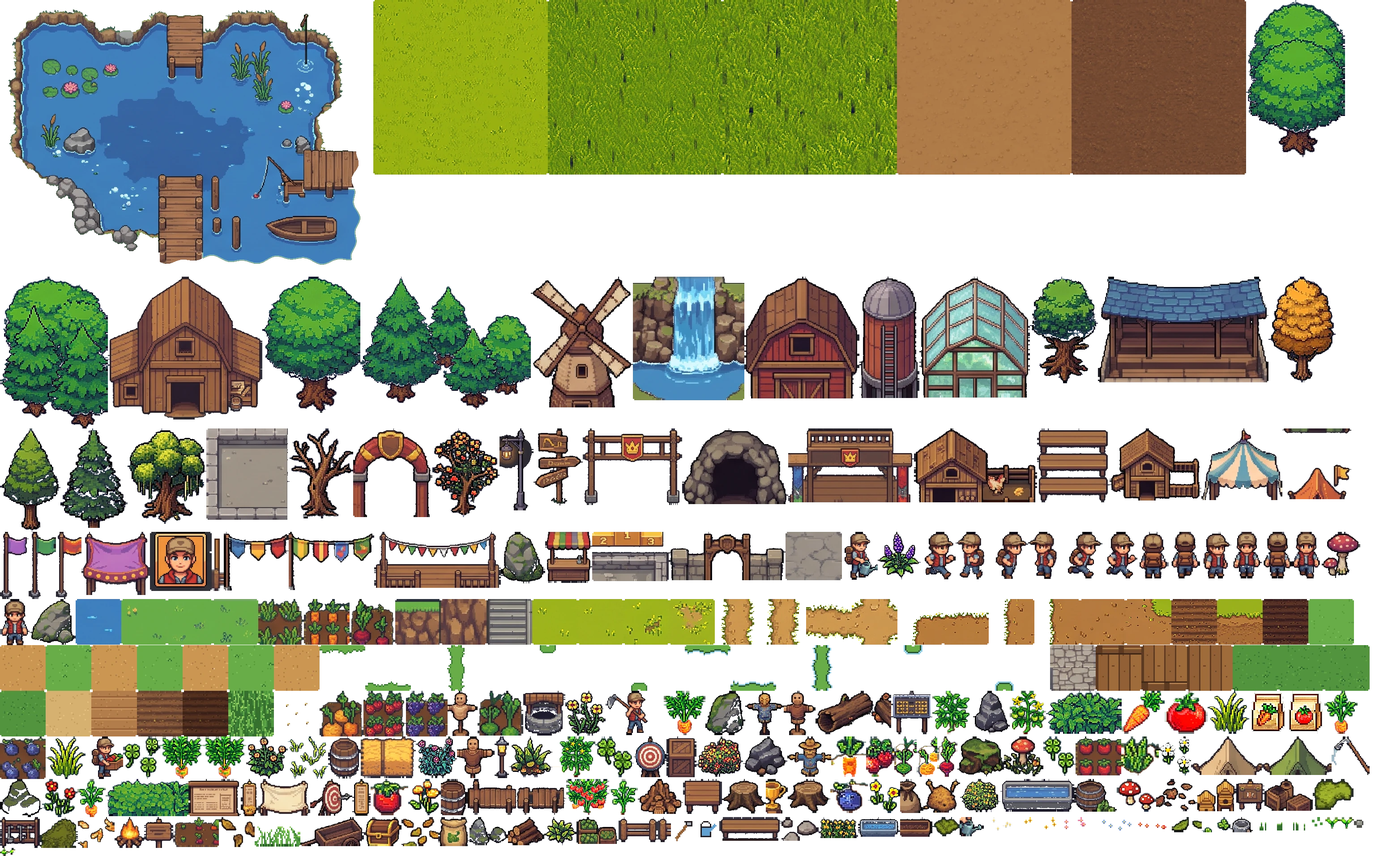
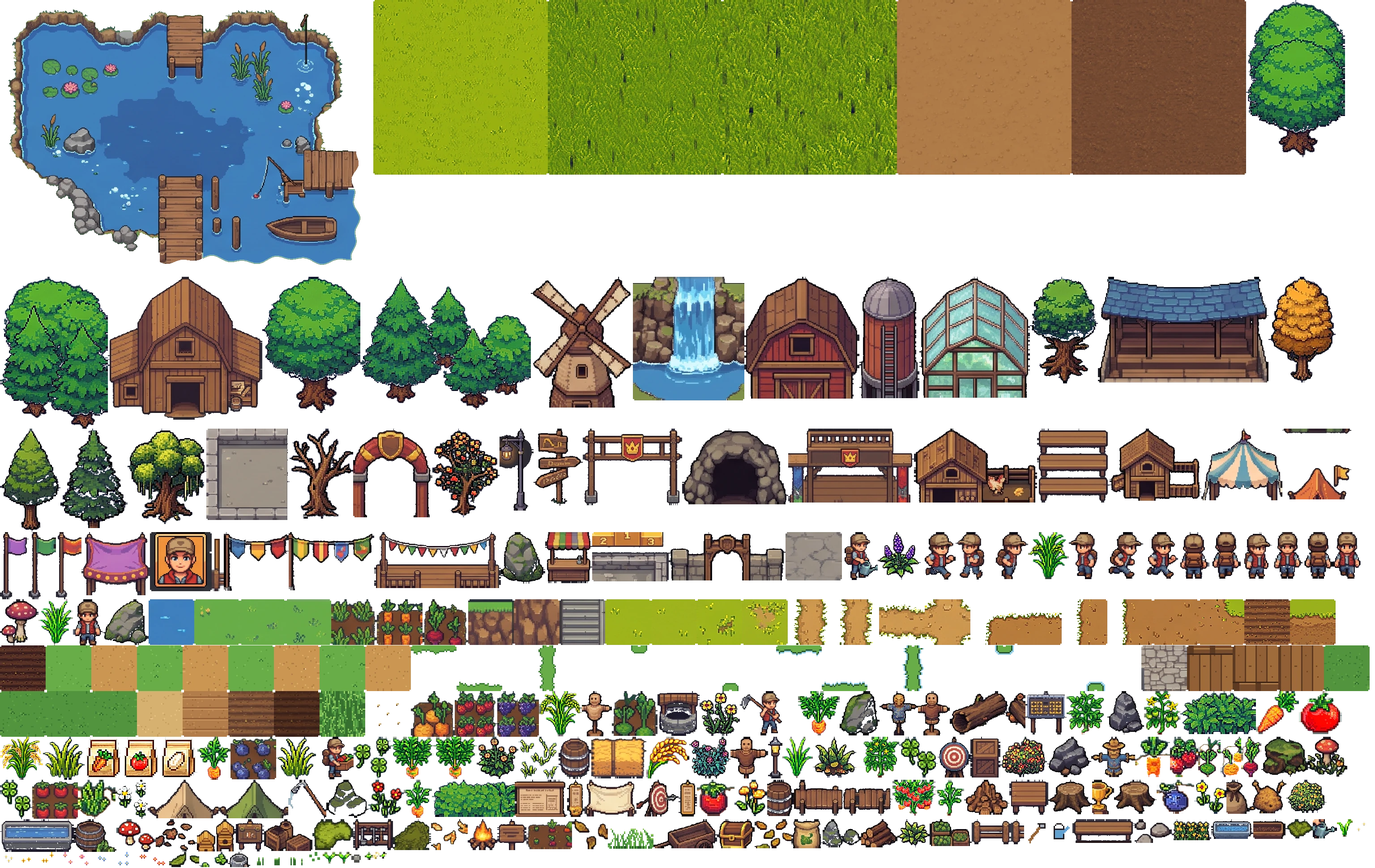
Thêm cây lúa (asset riêng) + hiệu ứng cây chín
- assets/source/crop_rice.png: hạt thóc, mầm, 4 giai đoạn (đến trổ bông),
  lúa chín vàng, bông lúa (vật phẩm), túi hạt
- Luật chơi: thêm cây Lúa (hạt 8 xu, bán 22 xu); nông trại mới có 6 hạt
  lúa và một hàng lúa trồng sẵn
- Lúa đung đưa mạnh như cỏ cao trước gió
- Mọi cây đã chín: quầng sáng vàng nhẹ + sao lấp lánh để biết là thu
  hoạch được

Claude-Session: https://claude.ai/code/session_01BbaPnx3cHQqz9kHRAFFL9w

diff --git a/client/src/main.ts b/client/src/main.ts
@@ -306,7 +306,7 @@ function render(time: number) {
       drawAnchored(ctx, atlas, nm, 0, 0, d.flip); ctx.restore();
       continue;
     }
-    const sw = swayFor(d.name.startsWith('pc_') || d.name.startsWith('cp_') ? 'crop_' : d.name, d.x, d.y, ts);
+    const sw = swayFor(d.name.startsWith('cp_rice') ? 'tallgrass_top' : d.name.startsWith('pc_') || d.name.startsWith('cp_') ? 'crop_' : d.name, d.x, d.y, ts);
     if (sw) {
       // shear around the base: the top moves, the roots stay put
       ctx.save();
@@ -315,6 +315,30 @@ function render(time: number) {
       drawAnchored(ctx, atlas, d.name, 0, 0, d.flip);
       ctx.restore();
     } else drawAnchored(ctx, atlas, d.name, d.x, d.y, d.flip);
+  }
+  // ripe crops: soft golden glow + twinkling sparkles (ready to harvest)
+  for (const k in plots) {
+    const p = plots[k];
+    if (!p.c || p.s < RIPE) continue;
+    const i = k.indexOf(',');
+    const tx = +k.slice(0, i), ty = +k.slice(i + 1);
+    if (tx < x0 || tx > x1 || ty < y0 || ty > y1) continue;
+    const cx = tx * TILE + 16, cy = ty * TILE + 8;
+    const ph = ts * 2.2 + tx * 1.7 + ty * 2.9;
+    const g = ctx.createRadialGradient(cx, cy, 0, cx, cy, 18);
+    g.addColorStop(0, `rgba(255,230,120,${0.16 + 0.08 * Math.sin(ph)})`);
+    g.addColorStop(1, 'rgba(255,230,120,0)');
+    ctx.fillStyle = g;
+    ctx.fillRect(cx - 18, cy - 18, 36, 36);
+    for (let j = 0; j < 2; j++) {
+      const a = Math.sin(ph * 1.3 + j * 2.4);
+      if (a <= 0.2) continue;
+      const sx = cx + Math.sin(ph * 0.7 + j * 3) * 10, sy = cy - 4 + Math.cos(ph * 0.5 + j * 2) * 8;
+      const r = 1 + a * 1.6;
+      ctx.fillStyle = `rgba(255,250,210,${a})`;
+      ctx.fillRect(sx - r, sy - 0.5, r * 2, 1);
+      ctx.fillRect(sx - 0.5, sy - r, 1, r * 2);
+    }
   }
   fx.drawAir(ctx, ts, camX, camY, vw, vh);
   ctx.setTransform(1, 0, 0, 1, 0, 0);

diff --git a/shared/rules.ts b/shared/rules.ts
@@ -11,6 +11,7 @@ export interface CropDef {
 }
 
 export const CROPS: Record<string, CropDef> = {
+  rice:       { id: 'rice',       name: 'Lúa',      seedPrice: 8,  sellPrice: 22,  stageSecs: 20 },
   carrot:     { id: 'carrot',     name: 'Cà rốt',   seedPrice: 10, sellPrice: 25,  stageSecs: 20 },
   turnip:     { id: 'turnip',     name: 'Củ cải',   seedPrice: 12, sellPrice: 30,  stageSecs: 25 },
   tomato:     { id: 'tomato',     name: 'Cà chua',  seedPrice: 20, sellPrice: 55,  stageSecs: 35 },
@@ -56,7 +57,7 @@ export interface StarterPlot { x: number; y: number; c: string; s: number }
 export function newFarm(starter: StarterPlot[] = []): FarmState {
   const plots: Record<string, Plot> = {};
   for (const p of starter) plots[key(p.x, p.y)] = { c: p.c, s: p.s, w: 0 };
-  return { v: 1, coins: 100, inv: { 'seed:carrot': 6, 'seed:turnip': 3 }, plots };
+  return { v: 1, coins: 100, inv: { 'seed:rice': 6, 'seed:carrot': 6, 'seed:tomato': 3 }, plots };
 }
 
 /** Advance growth lazily from timestamps. Returns true when the plot changed. */

diff --git a/shared/maps/farm.ts b/shared/maps/farm.ts
@@ -240,8 +240,8 @@ export function buildFarm(): GameMap {
   row(11, 3, 8, 'carrot', 3);
   row(12, 3, 5, 'tomato', 2);
   row(12, 6, 8, 'strawberry', 1);
-  row(13, 3, 4, 'pumpkin', 3);
-  row(13, 5, 6, '', 0);
+  row(13, 3, 6, 'rice', 3);
+  row(13, 7, 8, 'rice', 2);
 
   return {
     id: 'farm',

diff --git a/tools/crops_cut.py b/tools/crops_cut.py
@@ -29,12 +29,19 @@ LAYOUT = {
         'g3': (1032, 405, 1334, 670, 'plant'), 'g4': (1665, 405, 1950, 670, 'plant'),
         'ripe': (50, 766, 335, 1034, 'plant'),
     },
+    'rice': {
+        'seed': (1368, 82, 1632, 330, 'grain'),
+        'g1': (50, 405, 335, 670, 'plant'), 'g2': (472, 405, 735, 670, 'plant'),
+        'g3': (1032, 405, 1334, 670, 'plant'), 'g4': (1368, 405, 1632, 670, 'plant'),
+        'ripe': (50, 766, 335, 1034, 'plant'),
+        'item': (1032, 786, 1334, 1034, 'item'),
+    },
 }
 
 
 def is_grey(p):
     r, g, b = p[:3]
-    return abs(r - g) < 10 and abs(g - b) < 10 and 55 < r < 120
+    return abs(r - g) < 10 and abs(g - b) < 10 and 30 < r < 120
 
 
 def is_soil(p):
@@ -76,6 +83,8 @@ def cut(src, box, mode):
             r, g, b = p[:3]
             if mode == 'green':
                 keep = g > r + 15 and g > b + 15
+            elif mode == 'grain':
+                keep = r > 160 and g > 140 and b > 90
             elif mode == 'plant':
                 keep = not is_grey(p) and not is_soil(p)
             else:  # item on grey / dark backgrounds: flood fill from the border
